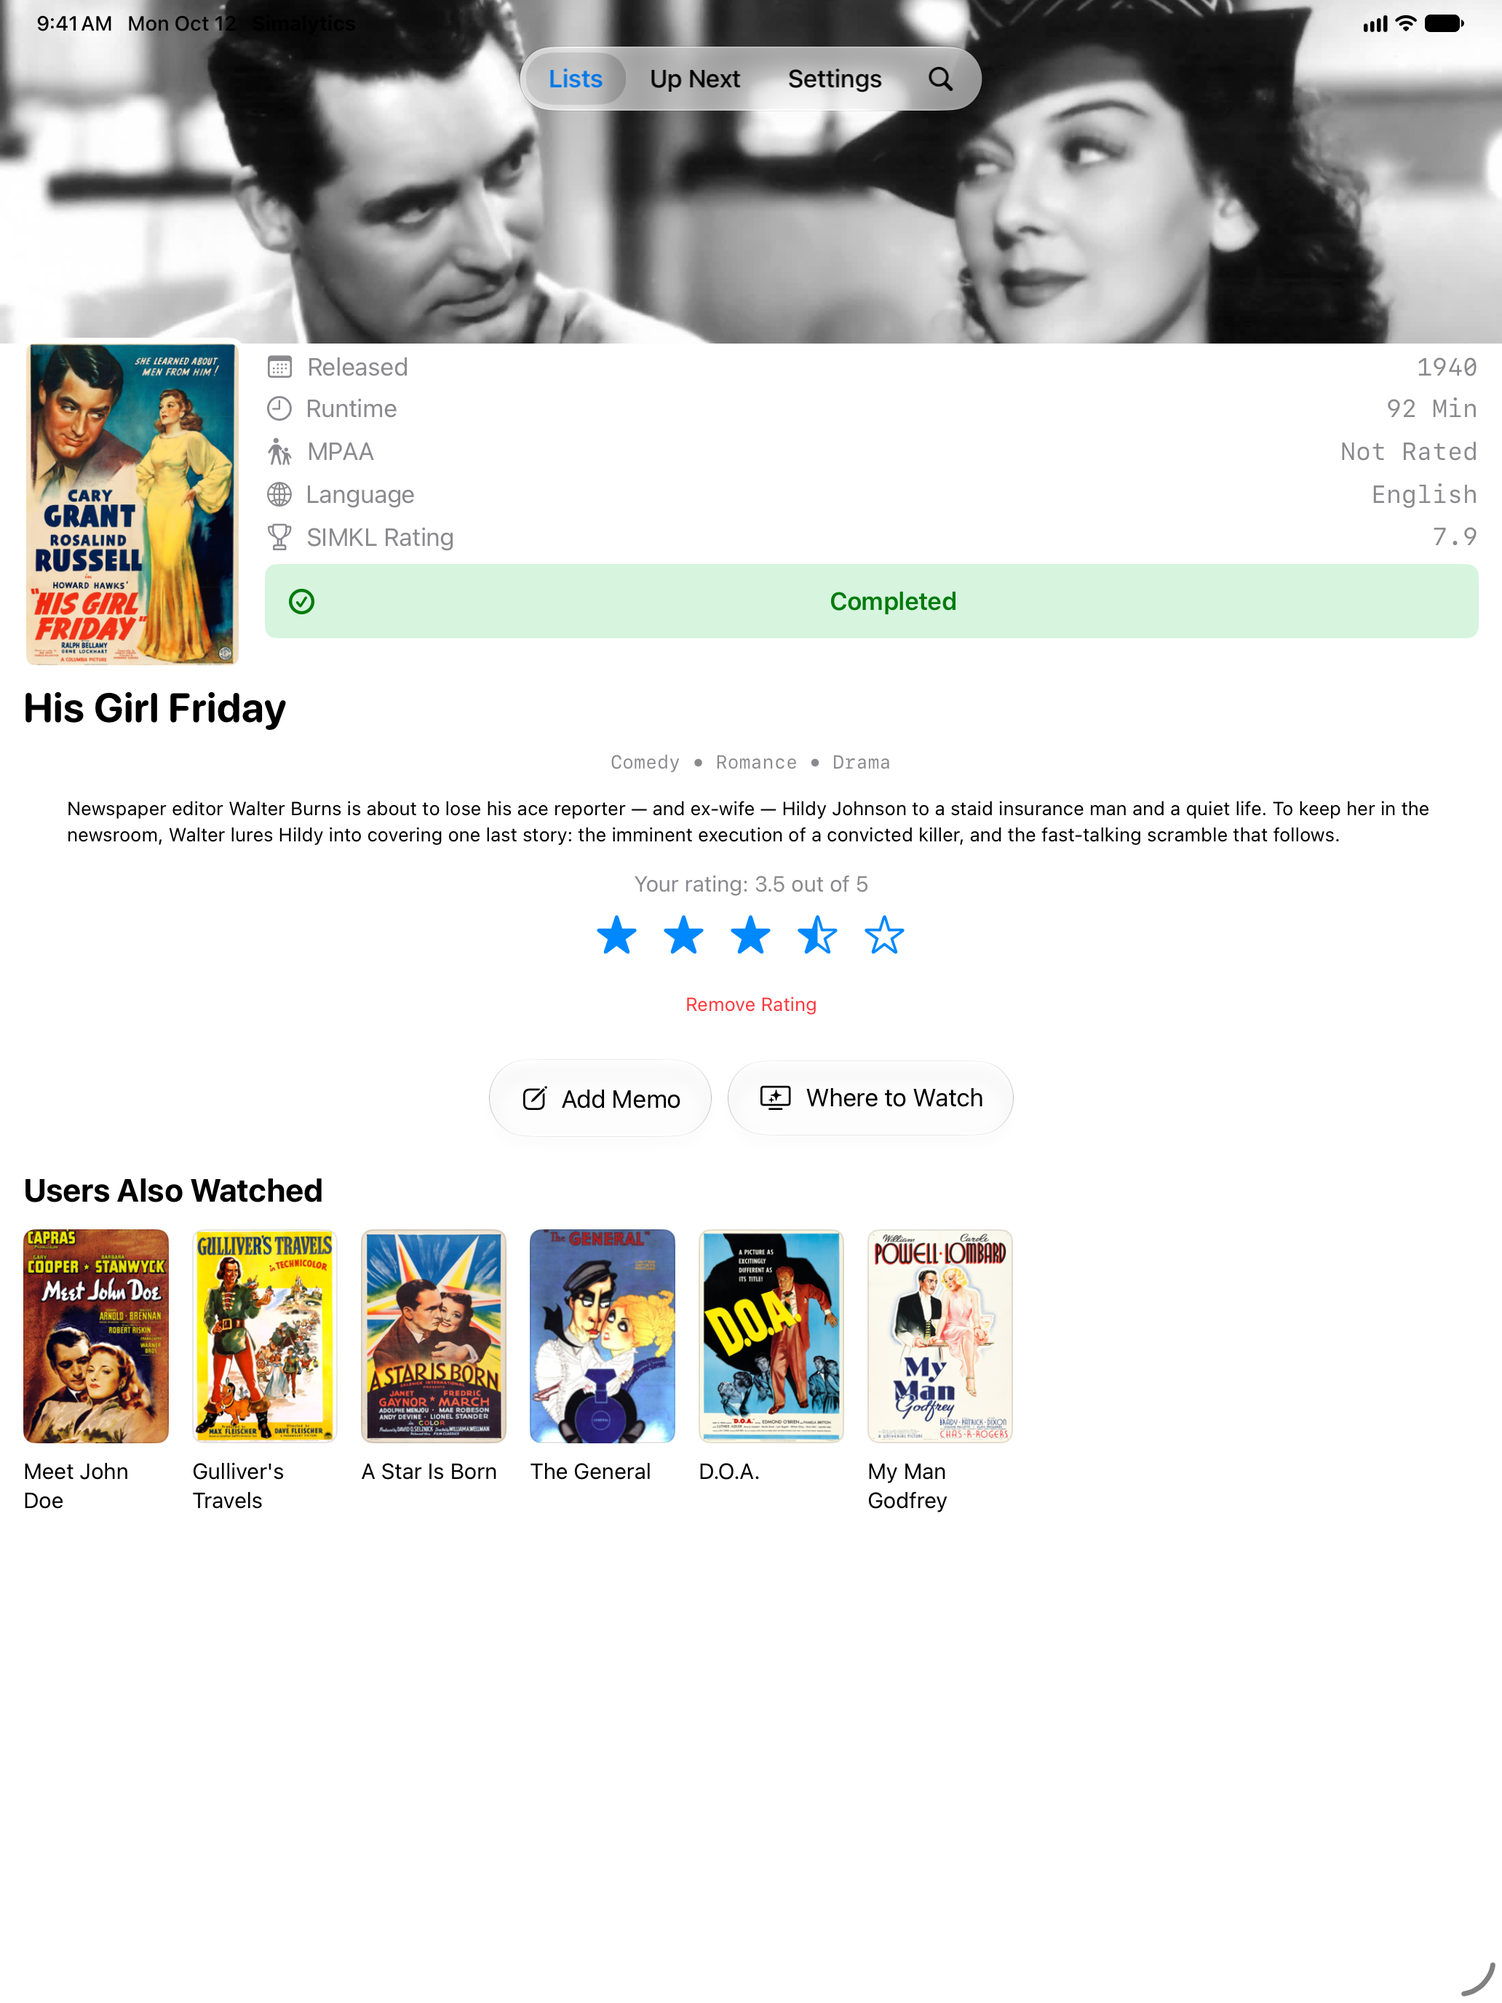
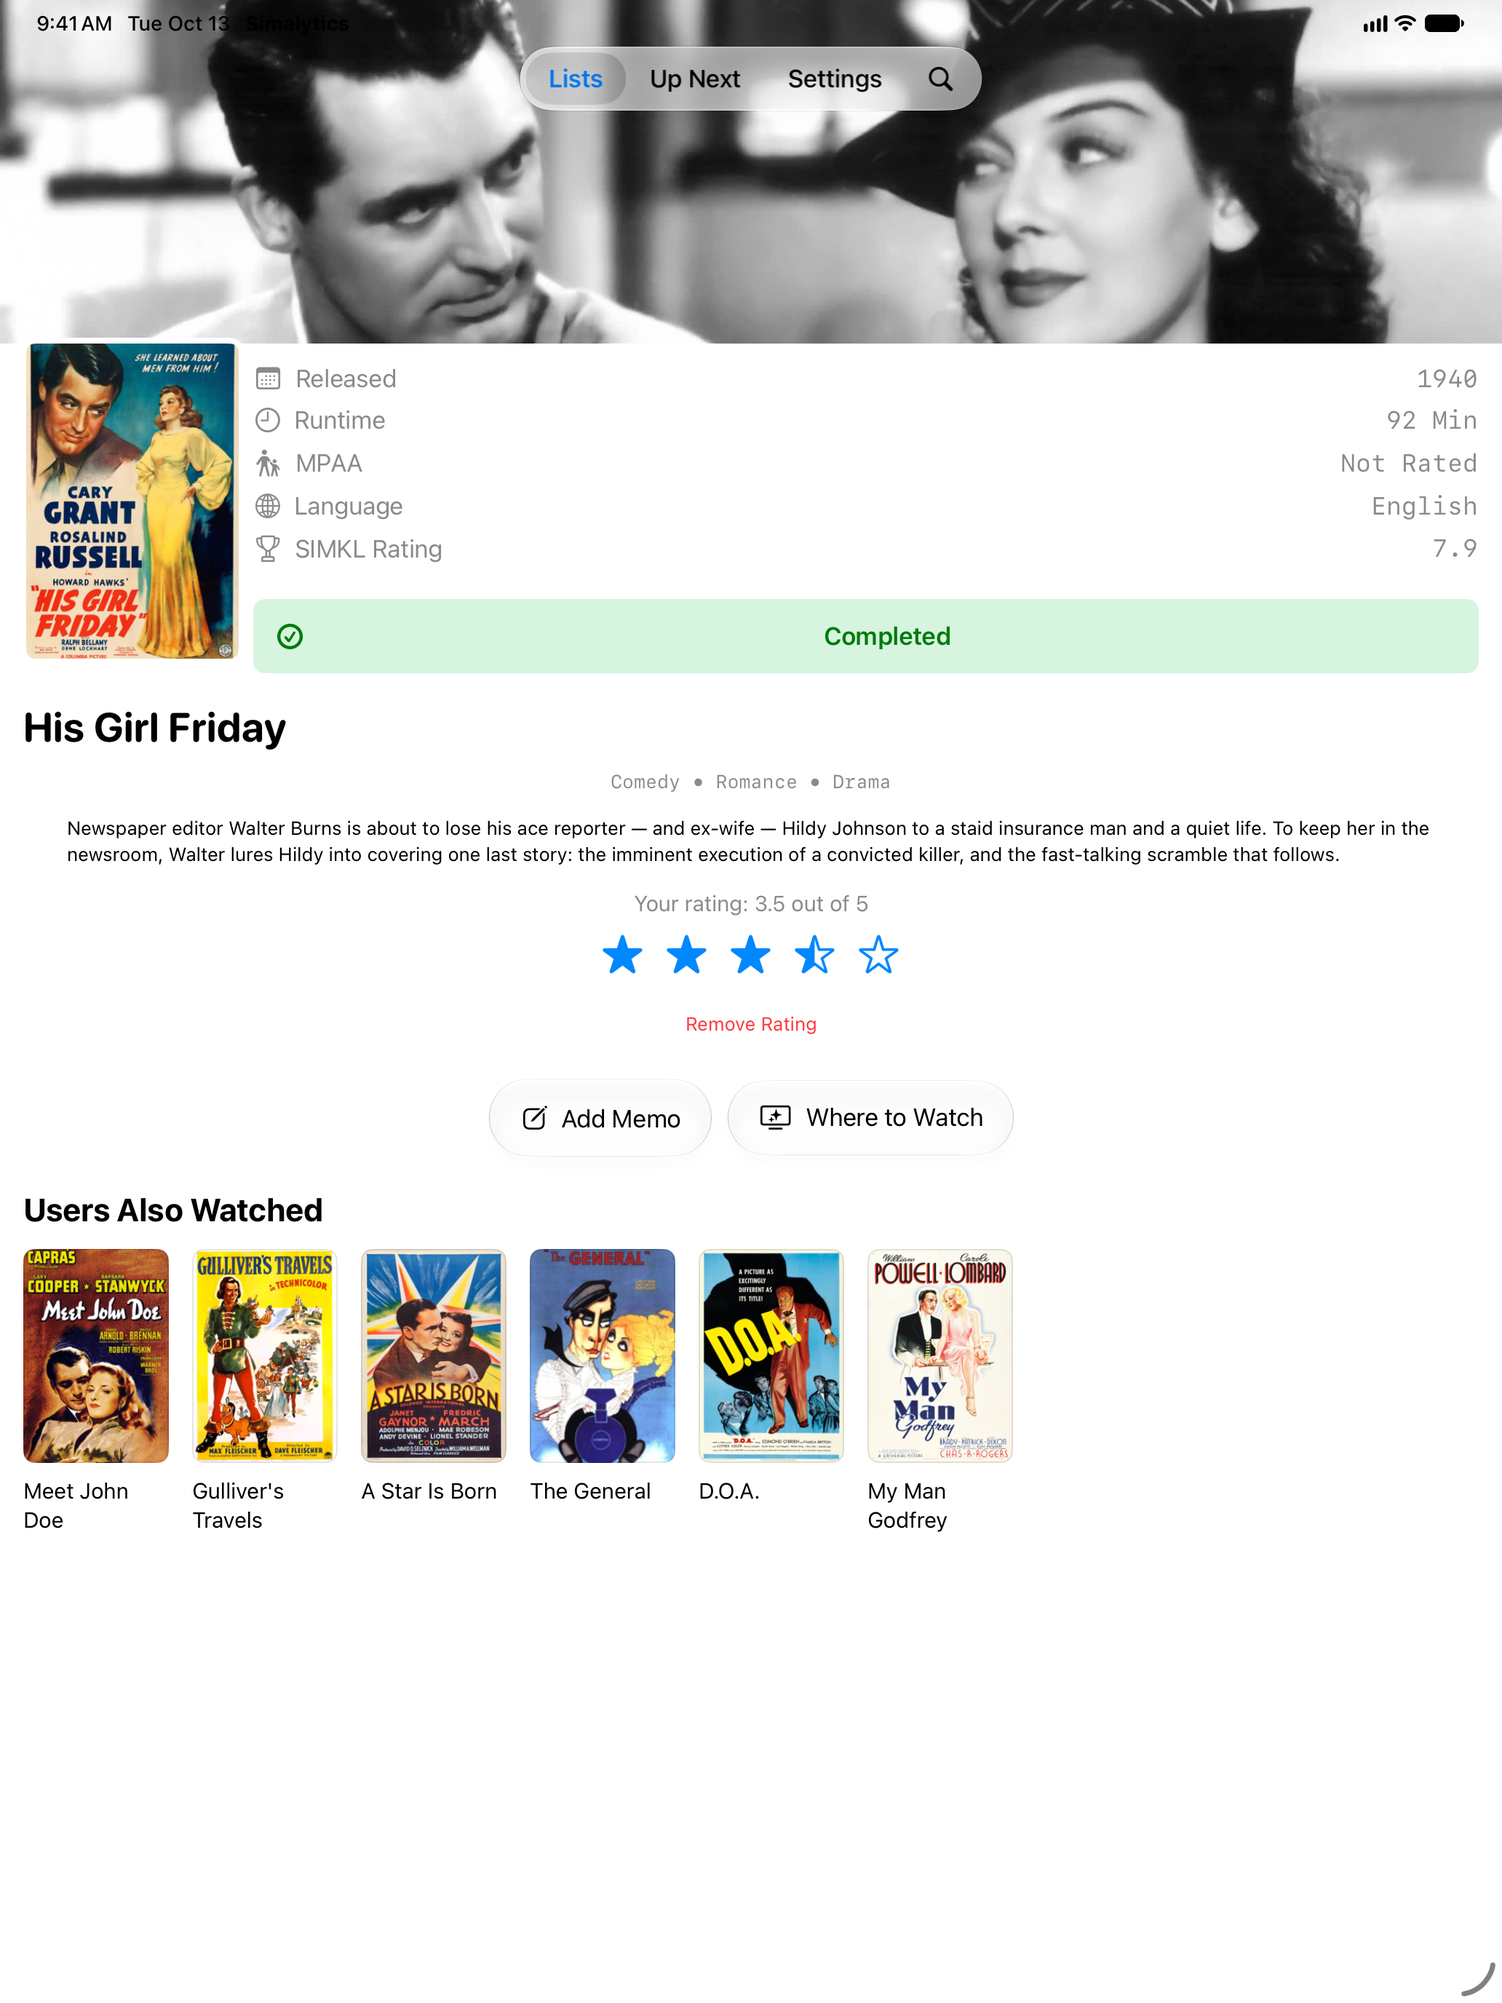
chore: release Simalytics 1.0.18 (141)
Prepare the replacement Simalytics 1.0.18 (141) release with the final detail-screen UI corrections. Episode rows are compact and stable for long descriptions, the episode header scrolls away below an inline navigation bar, ten-star ratings stay on one line, and the original poster-side metadata/watch-status spacing is restored. Five-star half ratings and accessible layouts remain supported.

The release commit contains the updated changelog and cumulative release notes, build 141, canonical App Store metadata, Apple release history, and recaptured iPhone/iPad detail screenshots using the existing marketing design. Version 1.0.18 remains unreleased, so the follow-up Changeset is folded into its existing entry.

Validation: all 133 test definitions pass on iOS 27 and all 21 focused rating/browser tests pass on iOS 18.5. Final Debug and arm64/x86_64 Release simulator builds pass. Simulator checks cover real back-button navigation, row density and stable heights, full descriptions, whole/half-star selection, dark appearance, and largest accessibility text. Both screenshot sets pass ASC validation.

After merge, the configured Xcode Cloud workflow produces build 141. This PR does not submit the app for App Store review.

diff --git a/simalytics/Components/RatingView.swift b/simalytics/Components/RatingView.swift
@@ -26,6 +26,7 @@ struct RatingView: View {
 
   @Environment(\.isEnabled) private var isEnabled
   @Environment(\.accessibilityReduceMotion) private var reduceMotion
+  @Environment(\.layoutDirection) private var layoutDirection
   @ScaledMetric(relativeTo: .body) private var scaledSize: CGFloat = 20
   private let fullStarImage: Image = Image(systemName: "star.fill")
   private let halfStarImage: Image = Image(systemName: "star.lefthalf.fill")
@@ -51,12 +52,34 @@ struct RatingView: View {
   }
 
   var body: some View {
-    ViewThatFits(in: .horizontal) {
-      HStack(spacing: 2) { stars(1...maxRating) }
-      VStack(spacing: 2) {
-        HStack(spacing: 2) { stars(1...max(1, maxRating / 2)) }
-        HStack(spacing: 2) { stars((max(1, maxRating / 2) + 1)...maxRating) }
+    // One adjustable control, with a full-height touch surface. Ten-star mode
+    // stays on one line even when ten separate 44-point buttons would not fit.
+    GeometryReader { geometry in
+      let segmentWidth = geometry.size.width / CGFloat(maxRating)
+      HStack(spacing: 0) {
+        ForEach(1...maxRating, id: \.self) { index in
+          starImageView(index: index, size: min(scaledSize, max(1, segmentWidth - 6)))
+            .foregroundStyle(starColor)
+            .frame(maxWidth: .infinity, maxHeight: .infinity)
+        }
       }
+      .contentShape(.rect)
+      .onTapGesture { location in
+        let x = layoutDirection == .rightToLeft ? geometry.size.width - location.x : location.x
+        guard
+          let value = RatingSelection.value(
+            at: x, width: geometry.size.width, maximum: maxRating, allowsHalfStars: allowsHalfStars
+          )
+        else { return }
+        updateRating(to: value, star: Int(value.rounded(.up)))
+      }
+    }
+    .frame(height: max(44, scaledSize + 8))
+    .frame(maxWidth: CGFloat(maxRating) * max(44, scaledSize + 8))
+    .task(id: selectedStar) {
+      guard selectedStar != nil else { return }
+      do { try await Task.sleep(for: .milliseconds(250)) } catch { return }
+      selectedStar = nil
     }
     .accessibilityElement(children: .ignore)
     .accessibilityLabel("Your rating")
@@ -75,33 +98,7 @@ struct RatingView: View {
     }
   }
 
-  private func stars(_ range: ClosedRange<Int>) -> some View {
-    ForEach(range, id: \.self) { index in
-      let hitSize = max(44, scaledSize + 8)
-      starImageView(index: index)
-        .foregroundStyle(starColor)
-        .frame(width: hitSize, height: hitSize)
-        .contentShape(.rect)
-        // Tap location is needed to select the left half of a star.
-        .onTapGesture { location in
-          let value = Double(index) - (allowsHalfStars && location.x < hitSize / 2 ? 0.5 : 0)
-          updateRating(to: value, star: index)
-        }
-        .accessibilityAddTraits(.isButton)
-        .accessibilityLabel("Rate \(index) out of \(maxRating)")
-        .accessibilityValue("Current rating \(rating.formatted()) out of \(maxRating)")
-        .accessibilityAction { updateRating(to: Double(index), star: index) }
-        .accessibilityActions {
-          if allowsHalfStars {
-            Button("Rate \((Double(index) - 0.5).formatted()) out of \(maxRating)") {
-              updateRating(to: Double(index) - 0.5, star: index)
-            }
-          }
-        }
-    }
-  }
-
-  func starImageView(index: Int) -> some View {
+  private func starImageView(index: Int, size: CGFloat) -> some View {
     let iFloat = Double(index)
     let image: Image
     switch starRounding {
@@ -128,7 +125,7 @@ struct RatingView: View {
       image
       .resizable()
       .aspectRatio(contentMode: .fit)
-      .frame(width: scaledSize, height: scaledSize)
+      .frame(width: size, height: size)
       .scaleEffect(selectedStar == index && !reduceMotion ? 1.2 : 1)
       .animation(reduceMotion ? nil : .snappy(duration: 0.2), value: selectedStar)
   }
@@ -140,11 +137,5 @@ struct RatingView: View {
     guard !reduceMotion else { return }
 
     selectedStar = index
-    Task {
-      try? await Task.sleep(for: .milliseconds(250))
-      await MainActor.run {
-        selectedStar = nil
-      }
-    }
   }
 }

diff --git a/simalytics/Components/MediaDetailHeader.swift b/simalytics/Components/MediaDetailHeader.swift
@@ -1,9 +1,10 @@
 import SwiftUI
 
-struct MediaDetailHeader<Info: View>: View {
+struct MediaDetailHeader<Info: View, Status: View>: View {
   let poster: String?
   let title: String
   @ViewBuilder let info: () -> Info
+  @ViewBuilder let status: () -> Status
   @Environment(\.colorScheme) private var colorScheme
   @Environment(\.dynamicTypeSize) private var dynamicTypeSize
   @State private var showingPoster = false
@@ -16,7 +17,7 @@ struct MediaDetailHeader<Info: View>: View {
           information
         }
       } else {
-        HStack(alignment: .top, spacing: 16) {
+        HStack(alignment: .top, spacing: 8) {
           posterView
           information
         }
@@ -31,9 +32,19 @@ struct MediaDetailHeader<Info: View>: View {
   }
 
   private var information: some View {
-    VStack(alignment: .leading, spacing: 8, content: info)
-      .padding(.top, 8)
-      .frame(maxWidth: .infinity, alignment: .leading)
+    VStack(spacing: 8) {
+      if !dynamicTypeSize.isAccessibilitySize { Spacer(minLength: 8) }
+      if dynamicTypeSize.isAccessibilitySize {
+        info().labeledContentStyle(AccessibleMediaInfoStyle())
+      } else {
+        info()
+      }
+      if !dynamicTypeSize.isAccessibilitySize { Spacer(minLength: 8) }
+      status()
+      if !dynamicTypeSize.isAccessibilitySize { Spacer().frame(height: 2) }
+    }
+    .frame(maxWidth: .infinity, alignment: .leading)
+    .frame(minHeight: dynamicTypeSize.isAccessibilitySize ? nil : 220.59)
   }
 
   @ViewBuilder private var posterView: some View {
@@ -52,7 +63,7 @@ struct MediaDetailHeader<Info: View>: View {
   }
 
   private func posterImage(_ url: String?) -> some View {
-    CustomKFImage(imageUrlString: url, memoryCacheOnly: true, height: 225, width: 150)
+    CustomKFImage(imageUrlString: url, memoryCacheOnly: true, height: 220.59, width: 150)
       .overlay {
         RoundedRectangle(cornerRadius: 8)
           .stroke(colorScheme == .dark ? Color.black : Color.white, lineWidth: 4)

diff --git a/simalytics/Components/MediaEpisodeRow.swift b/simalytics/Components/MediaEpisodeRow.swift
@@ -13,23 +13,19 @@ struct MediaEpisodeRow: View {
       : AnyLayout(HStackLayout(alignment: .top, spacing: 12))
     layout {
       EpisodeThumbnail(episode: episode, isWatched: isWatched, blurImages: blurImages, width: 104)
-      VStack(alignment: .leading, spacing: 4) {
-        Text(episode.numberLabel)
-          .font(.subheadline)
-          .foregroundStyle(.secondary)
-          .lineLimit(1, reservesSpace: true)
+      VStack(alignment: .leading, spacing: 3) {
         Text(episode.title)
           .font(.headline)
-          .lineLimit(2, reservesSpace: true)
+          .lineLimit(dynamicTypeSize.isAccessibilitySize ? 2 : 1, reservesSpace: true)
         Text(episode.preview.isEmpty ? " " : episode.preview)
           .font(.subheadline)
           .foregroundStyle(.secondary)
-          .lineLimit(2, reservesSpace: true)
-        Group {
+          .lineLimit(dynamicTypeSize.isAccessibilitySize ? 2 : 1, reservesSpace: true)
+        HStack(spacing: 4) {
+          Text(episode.numberLabel)
           if let date = episode.airDate {
+            Text("·")
             Text(date, format: .dateTime.month(.abbreviated).day().year())
-          } else {
-            Text("Air date unavailable")
           }
         }
         .font(.caption)

diff --git a/simalyticsTests/Models/RatingSelectionTests.swift b/simalyticsTests/Models/RatingSelectionTests.swift
@@ -1,0 +1,29 @@
+import Testing
+
+@testable import Simalytics
+
+struct RatingSelectionTests {
+  @Test(arguments: 1...10, [320.0, 366.0, 440.0])
+  func eachTenStarPositionSelectsItsRating(star: Int, width: Double) {
+    let position = (Double(star) - 0.5) * width / 10
+    #expect(
+      RatingSelection.value(at: position, width: width, maximum: 10, allowsHalfStars: false)
+        == Double(star))
+  }
+
+  @Test(arguments: 1...10)
+  func fiveStarModeKeepsHalfStarSelection(half: Int) {
+    let position = (Double(half) - 0.5) * 22
+    #expect(
+      RatingSelection.value(at: position, width: 220, maximum: 5, allowsHalfStars: true) == Double(
+        half) / 2)
+  }
+
+  @Test func edgesStayWithinTheScale() {
+    #expect(RatingSelection.value(at: -1, width: 320, maximum: 10, allowsHalfStars: false) == 1)
+    #expect(RatingSelection.value(at: 320, width: 320, maximum: 10, allowsHalfStars: false) == 10)
+    #expect(RatingSelection.value(at: 321, width: 320, maximum: 5, allowsHalfStars: true) == 5)
+    #expect(RatingSelection.value(at: 22, width: 220, maximum: 5, allowsHalfStars: true) == 1)
+    #expect(RatingSelection.value(at: 0, width: 0, maximum: 10, allowsHalfStars: false) == nil)
+  }
+}

diff --git a/simalytics/Components/MediaEpisodeSection.swift b/simalytics/Components/MediaEpisodeSection.swift
@@ -9,15 +9,13 @@ struct MediaEpisodeSection: View {
   let reconcile: () async -> [WatchlistSeason]?
   @AppStorage("blurEpisodeImages") private var blurImages = false
   @Environment(\.accessibilityReduceMotion) private var reduceMotion
-  @Environment(\.dynamicTypeSize) private var dynamicTypeSize
   @State private var selectedEpisode: EpisodeListItem?
   @State private var pendingEpisode: EpisodeListItem?
 
   var body: some View {
-    // Large text needs the whole viewport for rows; let its taller header scroll away.
-    LazyVStack(
-      spacing: 0, pinnedViews: dynamicTypeSize.isAccessibilitySize ? [] : [.sectionHeaders]
-    ) {
+    // Keep the episode controls in the content instead of pinning a second bar
+    // below the navigation bar while the episodes scroll.
+    LazyVStack(spacing: 0) {
       Section {
         ForEach(model.currentGroup?.episodes ?? []) { episode in
           EpisodeBrowserRow(

diff --git a/simalytics/Views/Explore/AnimeDetailView.swift b/simalytics/Views/Explore/AnimeDetailView.swift
@@ -102,6 +102,7 @@ struct AnimeDetailView: View {
 
           MediaDetailHeader(poster: animeDetails?.poster, title: animeDetails?.title ?? "anime") {
             AnimeHeaderInfo(animeDetails: $animeDetails, animeWatchlist: $animeWatchlist)
+          } status: {
             if !auth.simklAccessToken.isEmpty {
               AnimeWatchlistButton(status: $watchlistStatus, simkl_id: simkl_id)
             }
@@ -159,6 +160,7 @@ struct AnimeDetailView: View {
           Recommendations(recommendations: animeDetails?.users_recommendations ?? [])
         }
       }
+      .navigationBarTitleDisplayMode(.inline)
       .sheet(isPresented: $showingMemoSheet) {
         MemoView(
           memoText: $memoText, privacySelection: $privacySelection, simkl_id: simkl_id,

diff --git a/simalytics/Views/ContentView.swift b/simalytics/Views/ContentView.swift
@@ -43,6 +43,14 @@ struct ContentView: View {
         NavigationStack { ShowDetailView(simkl_id: ScreenshotEpisodeFixtures.showID) }
       case "anime-detail":
         NavigationStack { AnimeDetailView(simkl_id: ScreenshotEpisodeFixtures.animeID) }
+      case "show-navigation":
+        ScreenshotDetailNavigation(title: "TV Shows") {
+          ShowDetailView(simkl_id: ScreenshotEpisodeFixtures.showID)
+        }
+      case "anime-navigation":
+        ScreenshotDetailNavigation(title: "Anime") {
+          AnimeDetailView(simkl_id: ScreenshotEpisodeFixtures.animeID)
+        }
       case "movie-detail":
         NavigationStack { MovieDetailView(simkl_id: ScreenshotDetailFixtures.featuredMovieID) }
       default: ListView()

diff --git a/simalytics/Views/Explore/ShowDetailView.swift b/simalytics/Views/Explore/ShowDetailView.swift
@@ -98,6 +98,7 @@ struct ShowDetailView: View {
 
           MediaDetailHeader(poster: showDetails?.poster, title: showDetails?.title ?? "show") {
             ShowHeaderInfo(showDetails: $showDetails, showWatchlist: $showWatchlist)
+          } status: {
             if !auth.simklAccessToken.isEmpty {
               ShowWatchlistButton(status: $watchlistStatus, simkl_id: simkl_id)
             }
@@ -155,6 +156,7 @@ struct ShowDetailView: View {
           Recommendations(recommendations: showDetails?.users_recommendations)
         }
       }
+      .navigationBarTitleDisplayMode(.inline)
       .sheet(isPresented: $showingMemoSheet) {
         MemoView(
           memoText: $memoText,

diff --git a/simalytics/Views/Explore/MovieDetailView.swift b/simalytics/Views/Explore/MovieDetailView.swift
@@ -116,6 +116,7 @@ struct MovieDetailView: View {
                 .foregroundStyle(.secondary)
             }
           }
+        } status: {
           if !auth.simklAccessToken.isEmpty {
             MovieWatchlistButton(status: $watchlistStatus, simkl_id: simkl_id)
           }
@@ -159,6 +160,7 @@ struct MovieDetailView: View {
 
         Recommendations(recommendations: movieDetails?.users_recommendations)
       }
+      .navigationBarTitleDisplayMode(.inline)
       .sheet(isPresented: $showingMemoSheet) {
         MemoView(
           memoText: $memoText, privacySelection: $privacySelection, simkl_id: simkl_id,

diff --git a/simalytics/Utils/ScreenshotDetailNavigation.swift b/simalytics/Utils/ScreenshotDetailNavigation.swift
@@ -1,0 +1,19 @@
+#if DEBUG
+  import SwiftUI
+
+  /// Exercise the real back-button navigation context when validating detail layouts.
+  struct ScreenshotDetailNavigation<Detail: View>: View {
+    let title: String
+    @ViewBuilder let detail: () -> Detail
+    @State private var path = ["detail"]
+
+    var body: some View {
+      NavigationStack(path: $path) {
+        List { NavigationLink("Open fixture", value: "detail") }
+          .navigationTitle(title)
+          .navigationBarTitleDisplayMode(.inline)
+          .navigationDestination(for: String.self) { _ in detail() }
+      }
+    }
+  }
+#endif

diff --git a/simalytics/Models/RatingSelection.swift b/simalytics/Models/RatingSelection.swift
@@ -1,0 +1,14 @@
+import Foundation
+
+enum RatingSelection {
+  /// Maps the continuous rating strip to whole stars, or each half in five-star mode.
+  static func value(
+    at position: CGFloat, width: CGFloat, maximum: Int, allowsHalfStars: Bool
+  ) -> Double? {
+    guard width.isFinite, width > 0, position.isFinite, maximum > 0 else { return nil }
+    let subdivisions = allowsHalfStars ? 2.0 : 1.0
+    let count = Double(maximum) * subdivisions
+    let index = floor(min(max(position / width, 0), 1) * count)
+    return min(index + 1, count) / subdivisions
+  }
+}

diff --git a/simalytics/Components/AccessibleMediaInfoStyle.swift b/simalytics/Components/AccessibleMediaInfoStyle.swift
@@ -1,0 +1,13 @@
+import SwiftUI
+
+/// Give labels and their values the full width at accessibility text sizes.
+struct AccessibleMediaInfoStyle: LabeledContentStyle {
+  func makeBody(configuration: Configuration) -> some View {
+    VStack(alignment: .leading, spacing: 4) {
+      configuration.label
+      configuration.content
+    }
+    .frame(maxWidth: .infinity, alignment: .leading)
+    .fixedSize(horizontal: false, vertical: true)
+  }
+}
